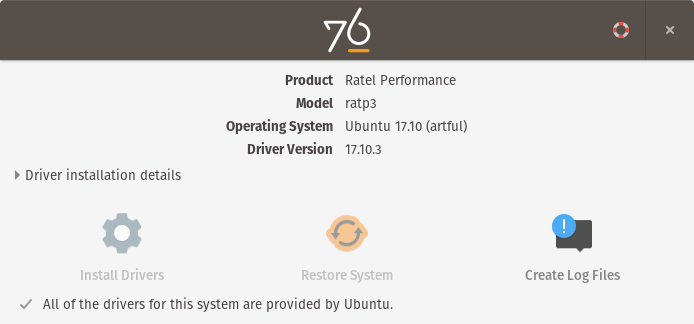
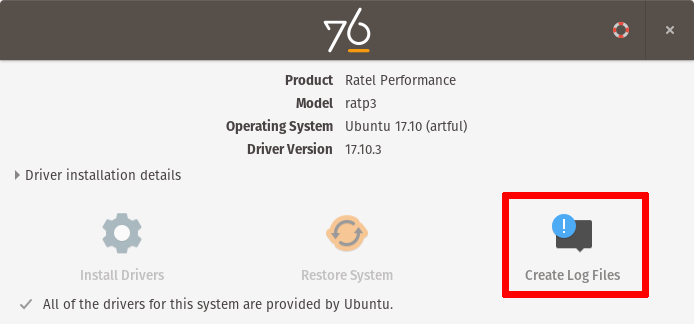
fix grammar, commands, and driver image

Changed region(s): [[0.7262, 0.5864, 0.938, 0.9259]]

diff --git a/_articles/system76-driver.md b/_articles/system76-driver.md
@@ -16,7 +16,7 @@ section: articles
 
 ### System76 Driver
 
-To install our Driver you run the following commands in the Terminal:
+To install our Driver you need to run the following commands in the Terminal:
 
 ```
 sudo apt-add-repository -ys ppa:system76-dev/stable
@@ -26,7 +26,7 @@ sudo apt-get install -y system76-driver
 
 #### Generate Log Files
 
-Simply clicking the button outlined in red will create a file called 'system76-logs.tgz'.
+Simply clicking the button outlined in red will create a file called 'system76-logs.tgz', it will be placed in your Home directory (/home/username)
 
 ![CreateLogFiles](/images/system76-driver/CreateLogFiles.png)
 
@@ -35,5 +35,5 @@ Simply clicking the button outlined in red will create a file called 'system76-l
 Follow the above steps as well as this additional command:
 
 ```
-sudo apt install system76-driver-nvidia
+sudo apt-get install system76-driver-nvidia
 ```
